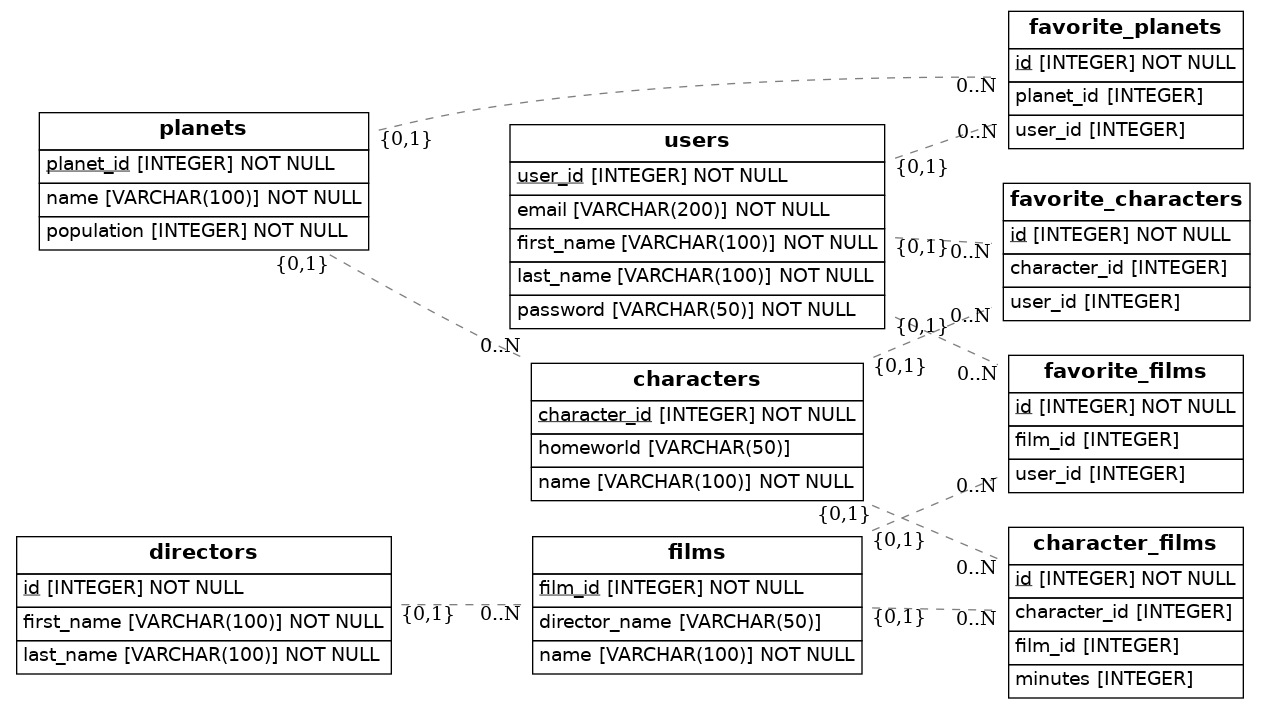
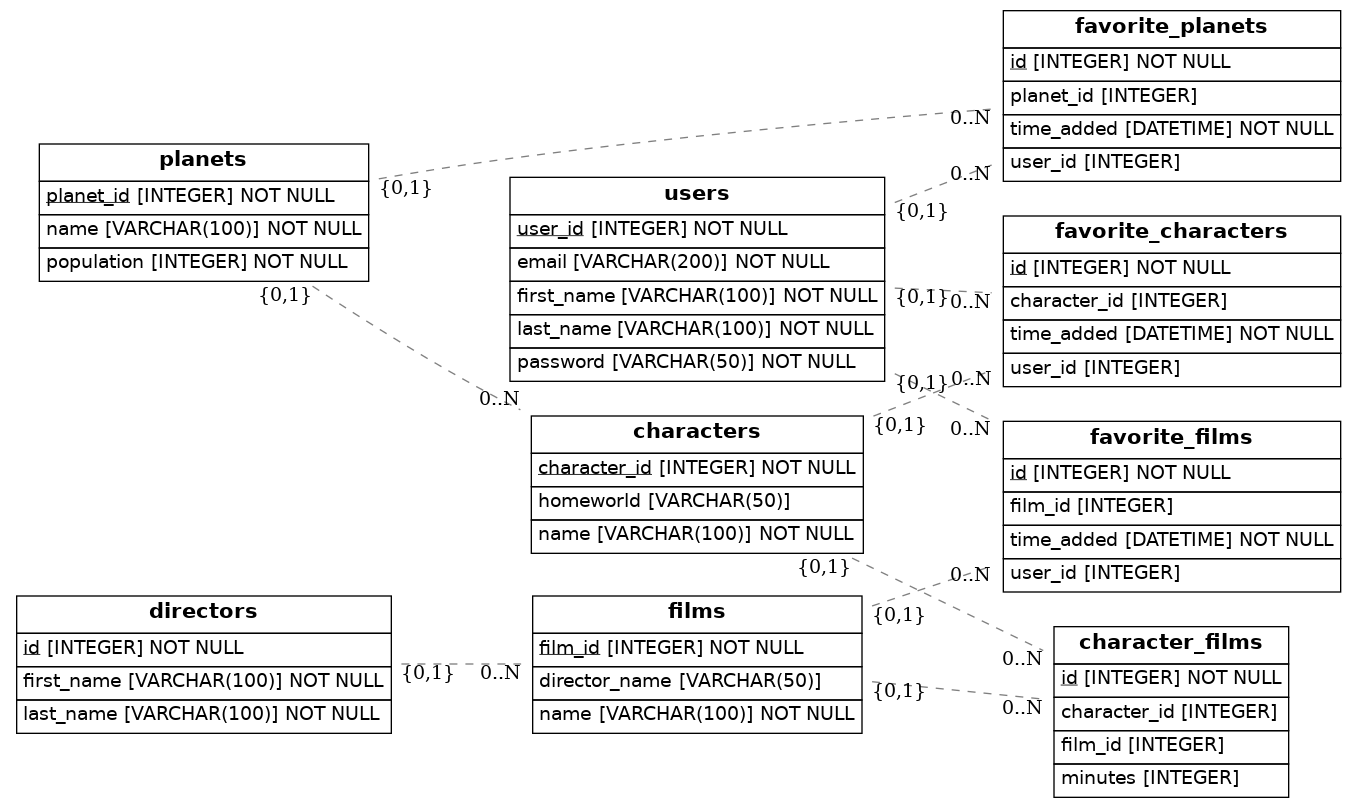
update code

Changed region(s): [[0.0, 0.0, 1.0, 0.9929], [0.0, 0.1551, 0.3391, 0.4034], [0.2775, 0.7447, 0.3083, 0.7757]]

diff --git a/src/models.py b/src/models.py
@@ -1,6 +1,6 @@
 import os
 import sys
-from sqlalchemy import Column, ForeignKey, Integer, String
+from sqlalchemy import Column, ForeignKey, Integer, String, DateTime
 from sqlalchemy.orm import relationship, declarative_base
 from sqlalchemy import create_engine
 from eralchemy2 import render_er
@@ -47,32 +47,35 @@ class CharacterFilm(Base):
     character_id = Column(Integer,ForeignKey('characters.character_id'))
     film_id = Column(Integer,ForeignKey('films.film_id'))
     minutes = Column(Integer,nullable=True)
-    characters = relationship(Character)
-    films = relationship(Film)
+    characters = relationship(Character,foreign_keys=[character_id])
+    films = relationship(Film,foreign_keys=[film_id])
 
 class FavoriteCharacters(Base):
     __tablename__ = 'favorite_characters'
     id = Column(Integer, primary_key=True)
     user_id = Column(Integer,ForeignKey('users.user_id'))
     character_id = Column(Integer,ForeignKey('characters.character_id'))
-    characters = relationship(Character)
-    users = relationship(User)
+    characters = relationship(Character,foreign_keys=[character_id])
+    users = relationship(User,foreign_keys=[user_id])
+    time_added = Column(DateTime,nullable=False)
 
 class FavoriteFilms(Base):
     __tablename__ = 'favorite_films'
     id = Column(Integer, primary_key=True)
     user_id = Column(Integer,ForeignKey('users.user_id'))
     film_id = Column(Integer,ForeignKey('films.film_id'))
-    users = relationship(User)
-    films = relationship(Film)
+    users = relationship(User,foreign_keys=[user_id])
+    films = relationship(Film,foreign_keys=[film_id])
+    time_added = Column(DateTime,nullable=False)
 
 class FavoritePlanets(Base):
     __tablename__ = 'favorite_planets'
     id = Column(Integer, primary_key=True)
     user_id = Column(Integer,ForeignKey('users.user_id'))
     planet_id = Column(Integer,ForeignKey('planets.planet_id'))
-    users = relationship(User)
-    planets = relationship(Planet)
+    users = relationship(User,foreign_keys=[user_id])
+    planets = relationship(Planet,foreign_keys=[planet_id])
+    time_added = Column(DateTime,nullable=False)
 
 
 ## Draw from SQLAlchemy base
